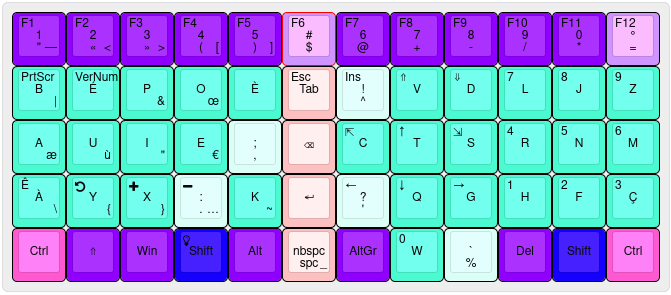
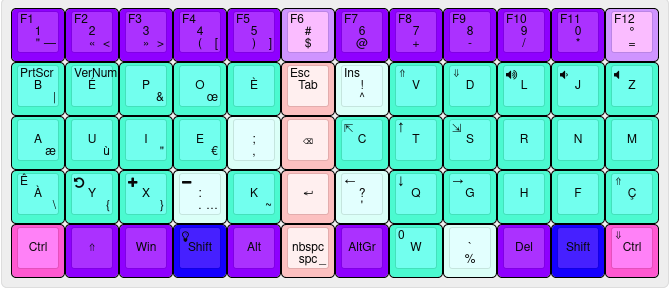
Minor change in layout
Add Volume keys and also map page-up/down on the 2 keys in lower-right corner
for easier access (more similar to Typematrix, very convenient for reading).

diff --git a/firmware/src/main.rs b/firmware/src/main.rs
@@ -125,10 +125,10 @@ pub static LAYERS: keyberon::layout::Layers<CustomActions> = &[
 
     ], &[
         &[k(F1),          k(F2),      k(F3), k(F4),  k(F5),  k(F6),     k(F7),     k(F8),   k(F9),     k(F10), k(F11), k(F12)],
-        &[k(SysReq),      k(NumLock), Trans, Trans,  Trans,  k(Escape), k(Insert), k(PgUp), k(PgDown), Trans,  Trans,  Trans ],
+        &[k(SysReq),      k(NumLock), Trans, Trans,  Trans,  k(Escape), k(Insert), k(PgUp), k(PgDown), k(VolUp),  k(VolDown),  k(Mute) ],
         &[Trans    ,      Trans     , Trans, Trans,  Trans,  Trans,     k(Home),   k(Up),   k(End),    Trans,  Trans,  Trans ],
-        &[k(NonUsBslash), Action::Custom(CustomActions::ColorCycle),      Action::Custom(CustomActions::FreqUp), Action::Custom(CustomActions::FreqDown),  Trans,  Trans,     k(Left),   k(Down), k(Right),  Trans,  Trans,  k(PgUp) ],
-        &[Action::Custom(CustomActions::LightUp),          Trans,      Action::Custom(CustomActions::LightDown), Action::Custom(CustomActions::ModeCycle),  Trans,  Trans,     Trans,     Trans,   Trans,     Trans,  Trans, Trans],
+        &[k(NonUsBslash), Action::Custom(CustomActions::ColorCycle), Action::Custom(CustomActions::FreqUp), Action::Custom(CustomActions::FreqDown), Trans, Trans, k(Left), k(Down), k(Right), Trans, Trans, k(PgUp) ],
+        &[Action::Custom(CustomActions::LightUp), Trans, Action::Custom(CustomActions::LightDown), Action::Custom(CustomActions::ModeCycle), Trans, Trans, Trans, Trans, Trans, Trans, Trans, k(PgDown)],
     ],
 ];
 
